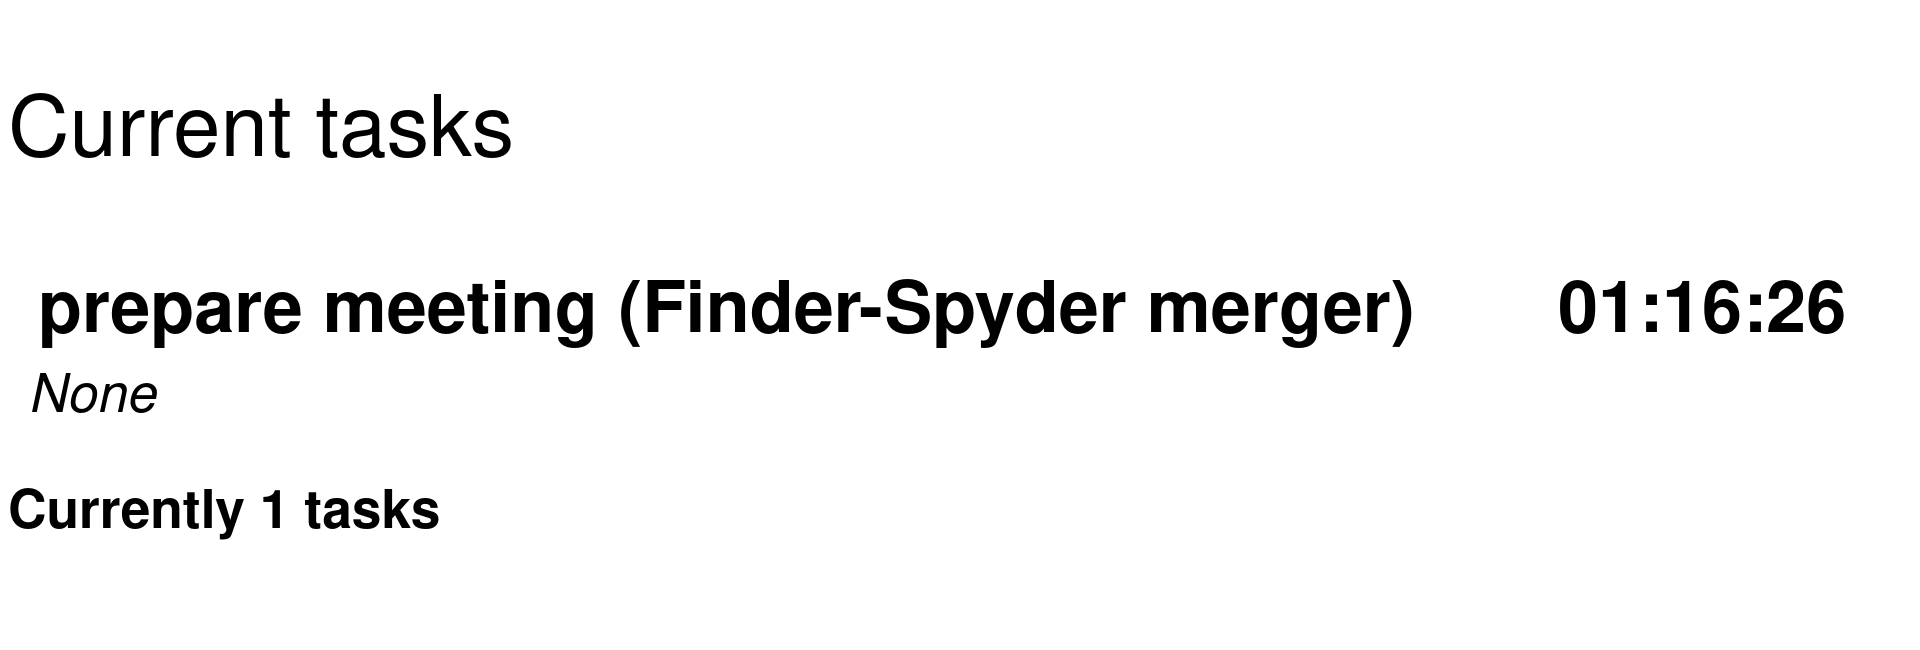
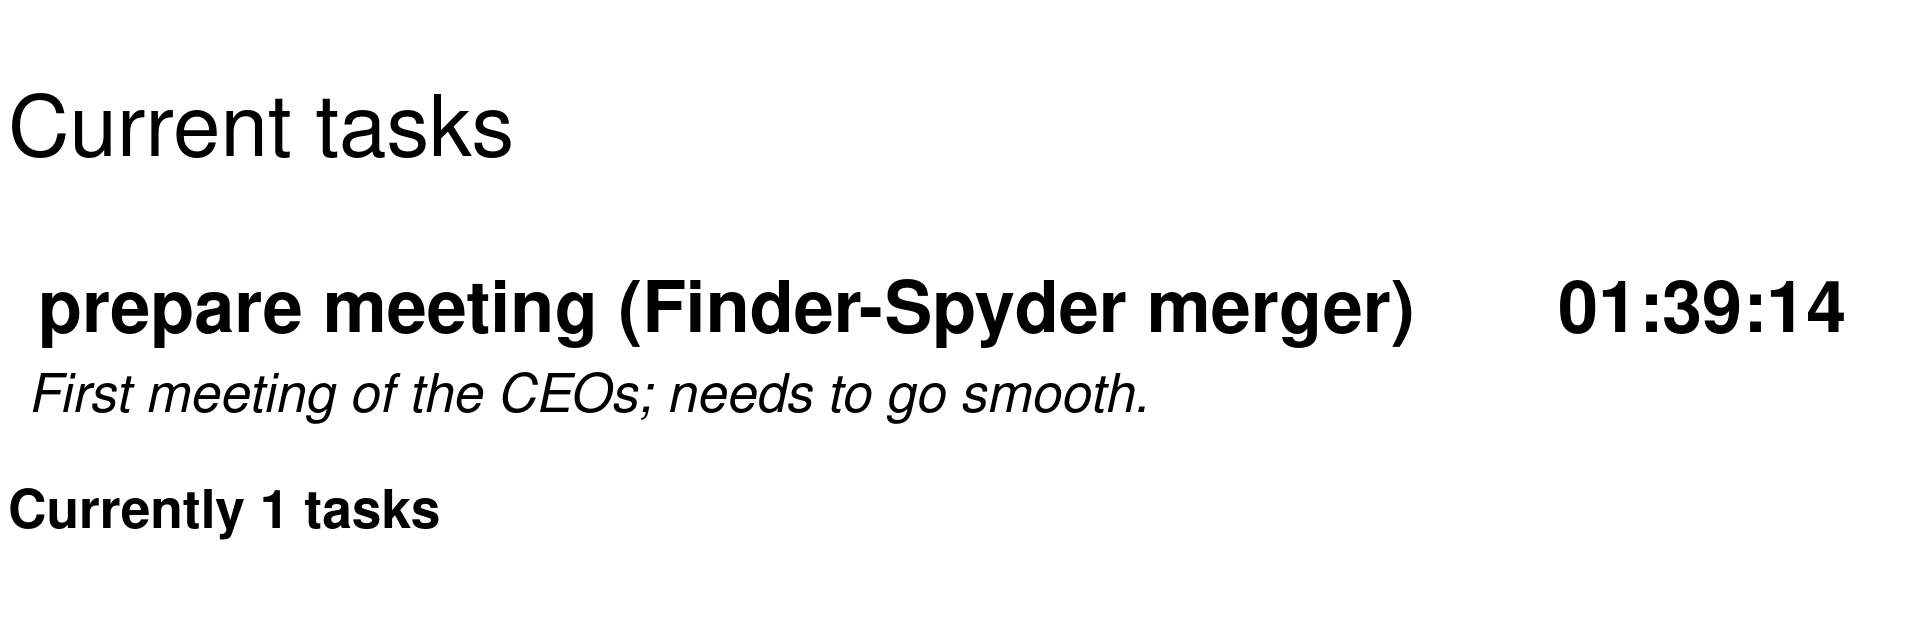
Improve preview image

diff --git a/README.md b/README.md
@@ -1,7 +1,7 @@
 # What it does
 This is a dashboard for [Kimai](www.kimai.org).
 It shows all active timeschedule records (i.e. the tasks that have startet but not yet been ended) of a user.
-![Preview](preview.png "Preview: You have been preparing a meeting for the last hour and sixteen minutes.")
+![Preview](preview.png "Preview: You have been preparing a meeting for the last hour and 39 minutes.")
 
 # How to use it
 A running docker instance of Kimai is required (see [here](www.kimai.org/documentation/docker.html)
